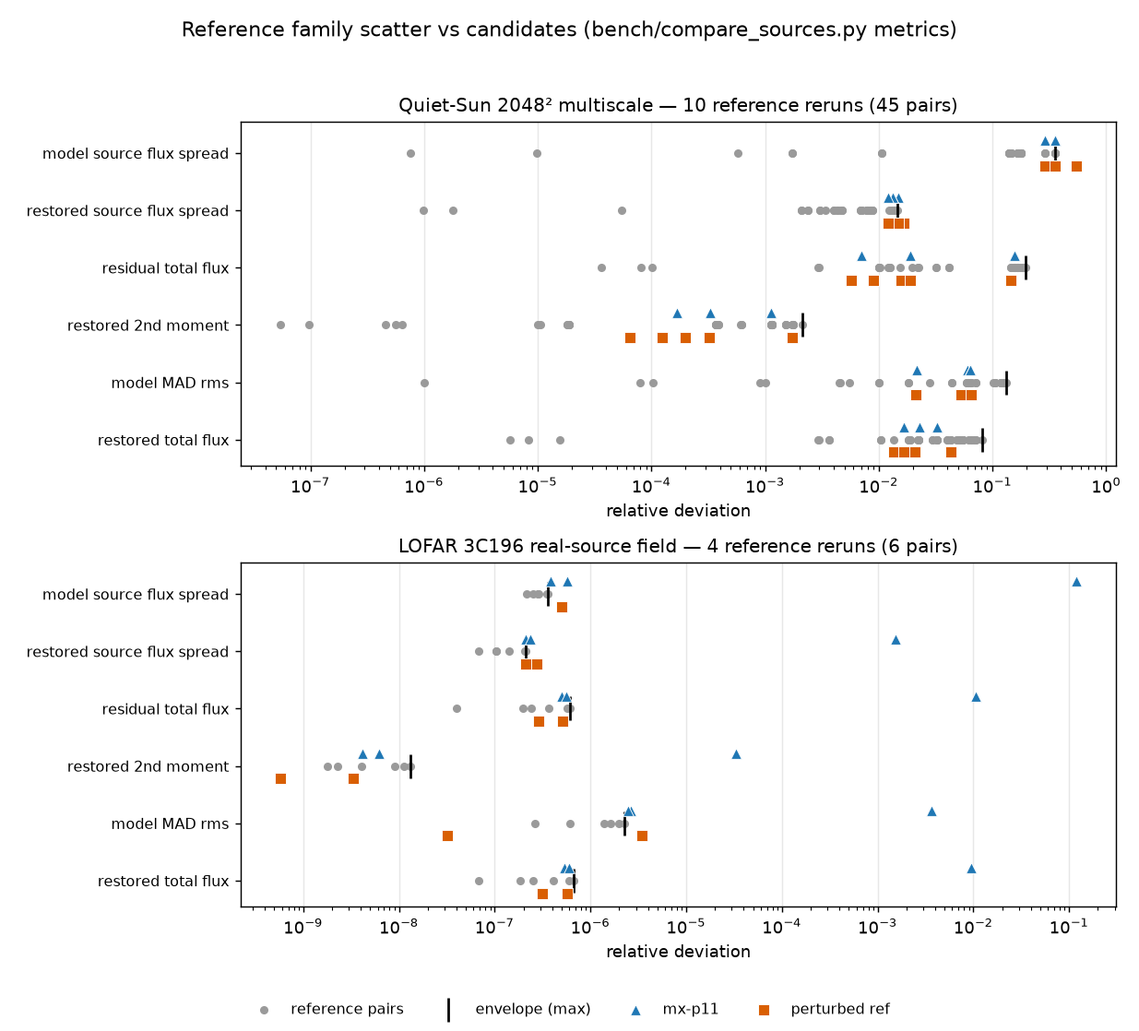
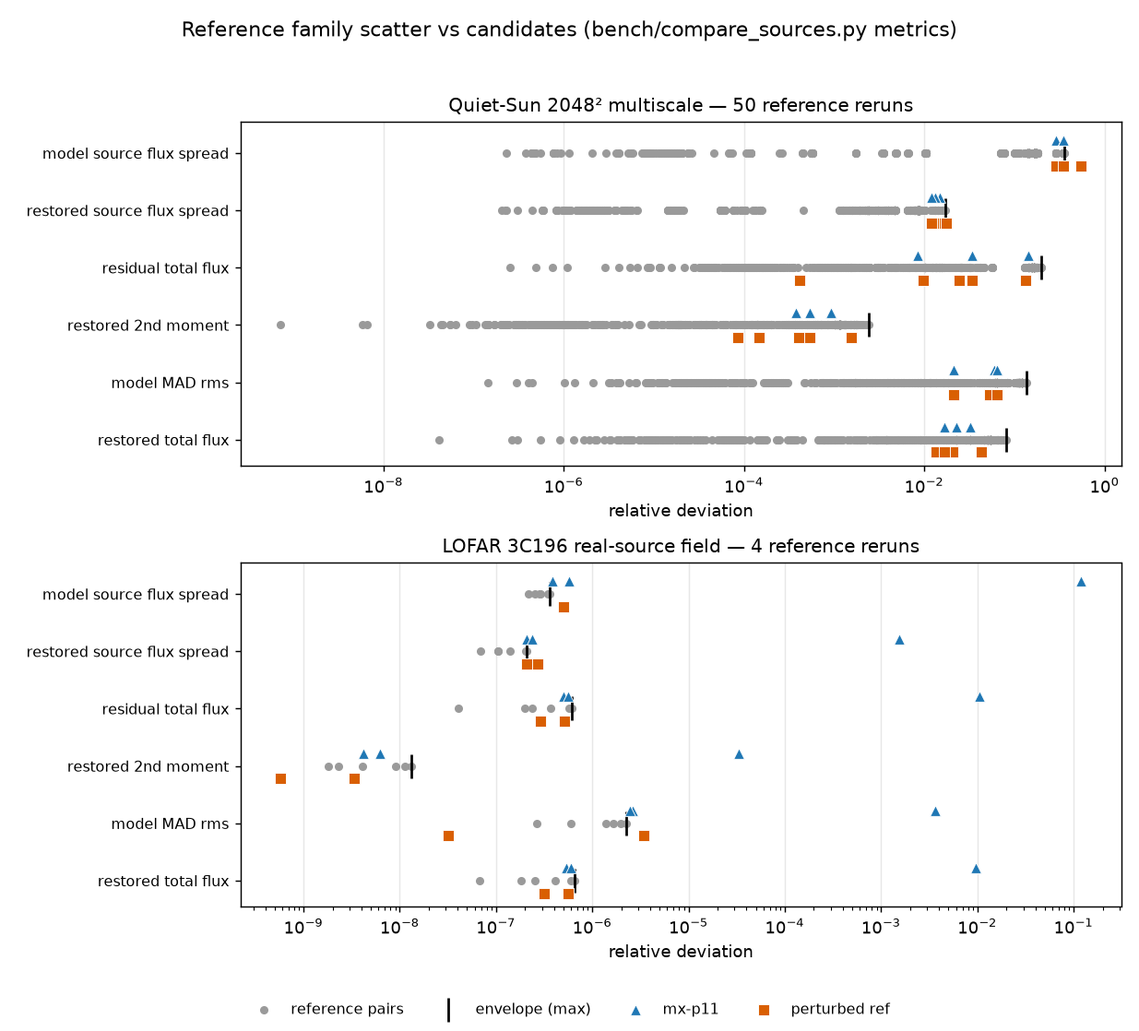
Science gates: 50-rerun family and a predeclared p95 criterion
The ten-rerun boundary finding is resolved by the two refinements it recommended.

compare_sources.py gains --criterion p95 (opt-in; the max criterion stays the
default and keeps its own exit status): the candidate may not be more extreme
than the 95th percentile of the reference family's own members, measured with
the statistic it is judged by - deviation from the family median for scalar
metrics, worst pairwise spread against the rest of the family for source
metrics. Both verdicts are reported; three new tests cover the helpers and the
criterion (stricter than max by construction: a family with one wild member).

Measured with 50 reference reruns (1225 pairs) and nine candidates: all four
mx-p11 runs pass under BOTH criteria on all six metrics. The single failing
candidate is ulp-r5, the same perturbed-reference outlier the boundary tally
had already flagged - one of five runs of a deliberately perturbed binary, not
the stack under test. On the restored source-flux-spread row the mx runs sit at
0.0120-0.0149 against a family max of 0.0175.

Plots: the scatter now uses the 50-rerun family and carries its family size in
the panel title (the previous title was hardcoded and mislabelled the panel);
the quiet-Sun caption quotes the 50-rerun spread. Docs: new section in
science-gates.md, plan row marked resolved, mem.md updated.

diff --git a/bench/compare_sources.py b/bench/compare_sources.py
@@ -41,6 +41,11 @@ NUMERICAL_FLOOR = 1.0e-5      # predeclared float32 storage floor (see docs/scie
 POSITION_FLOOR_PX = 0.01      # positions are sub-pixel centroids now, so exact equality is
                               # not the right bar when the reference envelope is zero;
                               # 1/100 pixel is far below any physical positional error
+CRITERION_QUANTILE = 0.95     # `--criterion p95`: the candidate may not be more extreme
+                              # than the 95th percentile of the reference family's own
+                              # members, measured with the same statistic it is judged by
+                              # (deviation from the family median for scalar metrics,
+                              # worst pairwise spread for source metrics)
 
 
 
@@ -198,12 +203,33 @@ def relative_deviation(a, b):
     return abs(a - b) / scale
 
 
+def percentile(values, fraction):
+    values = [value for value in values if value is not None and np.isfinite(value)]
+    if not values:
+        return 0.0
+    return float(np.quantile(values, fraction))
+
+
+def candidate_percentile(values, candidate):
+    """Share of family values at or below the candidate (i.e. its rank)."""
+    values = [value for value in values if value is not None and np.isfinite(value)]
+    if not values:
+        return None
+    return float(sum(1 for value in values if value <= candidate) / len(values))
+
+
 def main():
     parser = argparse.ArgumentParser()
     parser.add_argument('--candidate', required=True, type=Path)
     parser.add_argument('references', nargs='+', type=Path,
                         help='reference rerun directories (at least two for an envelope)')
     parser.add_argument('--json', type=Path, help='also write the full comparison here')
+    parser.add_argument('--criterion', choices=('max', 'p95'), default='max',
+                        help='max: candidate must stay inside the reference family\'s worst '
+                             'deviation (default, conservative). p95: candidate must not be '
+                             'more extreme than the 95th percentile of the family\'s own '
+                             'members, measured with the same statistic (see the module '
+                             'docstring and docs/science-gates.md)')
     args = parser.parse_args()
 
     names = set(product_files(args.references[0]))
@@ -217,7 +243,8 @@ def main():
     print(f"candidate: {args.candidate}")
     print(f"references: {', '.join(str(r) for r in args.references)}")
     print()
-    header = (f"{'product':<18}{'metric':<26}{'reference':>14}{'env_med':>11}{'envelope':>12}"
+    threshold_label = 'p95 family' if args.criterion == 'p95' else 'envelope'
+    header = (f"{'product':<18}{'metric':<26}{'reference':>14}{'env_med':>11}{threshold_label:>12}"
               f"{'candidate':>14}{'deviation':>12}  result")
     print(header)
     print('-' * len(header))
@@ -236,16 +263,27 @@ def main():
             # the max is what the gate uses, so a single wild rerun cannot be
             # hidden behind a tight median.
             envelope_median = float(np.median(deviations)) if deviations else 0.0
+            # Each reference member measured against the family median is the
+            # fair comparator for a candidate measured the same way; the family
+            # distribution of those deviations drives the p95 criterion.
+            member_deviations = [relative_deviation(centre, value) for value in values]
+            p95_family = percentile(member_deviations, CRITERION_QUANTILE)
             deviation = relative_deviation(centre, candidate_metrics[key])
-            passed = deviation <= max(envelope, NUMERICAL_FLOOR)
+            threshold = (max(p95_family, NUMERICAL_FLOOR) if args.criterion == 'p95'
+                         else max(envelope, NUMERICAL_FLOOR))
+            passed = deviation <= threshold
             entry['checks'][key] = {'reference_median': centre, 'envelope': envelope,
                                     'envelope_median': envelope_median,
+                                    'p95_family': p95_family,
+                                    'candidate_percentile': candidate_percentile(
+                                        member_deviations, deviation),
                                     'candidate': candidate_metrics[key], 'deviation': deviation,
-                                    'threshold': max(envelope, NUMERICAL_FLOOR),
+                                    'threshold': threshold, 'criterion': args.criterion,
                                     'passed': bool(passed)}
             if not passed:
-                failures.append(f'{name}: {key} deviation {deviation:.3e} > envelope {envelope:.3e}')
-            print(f"{name:<18}{key:<26}{centre:>14.6g}{envelope_median:>11.3g}{envelope:>12.6g}"
+                failures.append(f'{name}: {key} deviation {deviation:.3e} > '
+                                f'{threshold_label} {threshold:.3e}')
+            print(f"{name:<18}{key:<26}{centre:>14.6g}{envelope_median:>11.3g}{threshold:>12.6g}"
                   f"{candidate_metrics[key]:>14.6g}{deviation:>12.3e}  "
                   f"{'PASS' if passed else 'FAIL'}")
 
@@ -261,13 +299,32 @@ def main():
         reference_pairs = [c for c in pair_checks if c['matched']]
         flux_envelope = max((c['flux_ratio_spread'] for c in reference_pairs), default=0.0)
         offset_envelope = max((c['position_offset_max_px'] for c in reference_pairs), default=0.0)
+        # Per-member worst values against the rest of the family: the same
+        # statistic the candidate is scored with, applied to family members.
+        member_flux, member_offset = [], []
+        for index, member in enumerate(reference_metrics):
+            others = [compare_sources(member['_sources'], other['_sources'])
+                      for j, other in enumerate(reference_metrics) if j != index]
+            matched = [check for check in others if check['matched']]
+            member_flux.append(max((check['flux_ratio_spread'] for check in matched),
+                                   default=None))
+            member_offset.append(max((check['position_offset_max_px'] for check in matched),
+                                     default=None))
+        flux_p95 = percentile(member_flux, CRITERION_QUANTILE)
+        offset_p95 = percentile(member_offset, CRITERION_QUANTILE)
         entry['source_checks'] = {'candidate_vs_references': candidate_checks,
-                                  'reference_pairs': pair_checks}
+                                  'reference_pairs': pair_checks,
+                                  'member_worst_flux': member_flux,
+                                  'member_worst_offset': member_offset}
         if paired:
             worst_flux = max(c['flux_ratio_spread'] for c in paired)
             worst_offset = max(c['position_offset_max_px'] for c in paired)
-            flux_ok = worst_flux <= max(flux_envelope, NUMERICAL_FLOOR)
-            offset_ok = worst_offset <= max(offset_envelope, POSITION_FLOOR_PX) + 1e-9
+            flux_threshold = (max(flux_p95, NUMERICAL_FLOOR) if args.criterion == 'p95'
+                              else max(flux_envelope, NUMERICAL_FLOOR))
+            offset_threshold = (max(offset_p95, POSITION_FLOOR_PX) if args.criterion == 'p95'
+                                else max(offset_envelope, POSITION_FLOOR_PX))
+            flux_ok = worst_flux <= flux_threshold
+            offset_ok = worst_offset <= offset_threshold + 1e-9
             # A source seen by one image and not the other is a difference even
             # when everything else matched, so unmatched counts are checked too.
             unmatched_envelope = max((c['unmatched'] + c.get('unmatched_candidate', 0)
@@ -278,24 +335,28 @@ def main():
             entry['source_summary'] = {'matched': max(c['matched'] for c in paired),
                                        'flux_ratio_spread': worst_flux,
                                        'flux_ratio_envelope': flux_envelope,
+                                       'flux_ratio_p95': flux_p95,
+                                       'flux_threshold': flux_threshold,
                                        'position_offset_max_px': worst_offset,
                                        'position_offset_envelope_px': offset_envelope,
+                                       'position_offset_p95': offset_p95,
+                                       'position_threshold': offset_threshold,
                                        'unmatched': unmatched_candidate,
                                        'unmatched_envelope': unmatched_envelope,
                                        'flux_passed': bool(flux_ok), 'position_passed': bool(offset_ok),
                                        'unmatched_passed': bool(unmatched_ok)}
             if not flux_ok:
                 failures.append(f'{name}: source flux ratio spread {worst_flux:.3e} '
-                                f'> reference envelope {flux_envelope:.3e}')
+                                f'> {threshold_label} {flux_threshold:.3e}')
             if not offset_ok:
                 failures.append(f'{name}: source position offset {worst_offset:.3f} px '
-                                f'> reference envelope {offset_envelope:.3f} px')
+                                f'> {threshold_label} {offset_threshold:.3f} px')
             if not unmatched_ok:
                 failures.append(f'{name}: {unmatched_candidate} unmatched source(s) '
                                 f'> reference envelope {unmatched_envelope}')
-            print(f"{name:<18}{'matched source flux':<26}{'':>14}{flux_envelope:>12.3e}"
+            print(f"{name:<18}{'matched source flux':<26}{'':>14}{flux_threshold:>12.3e}"
                   f"{worst_flux:>14.3e}{'':>12}  {'PASS' if flux_ok else 'FAIL'}")
-            print(f"{name:<18}{'source position max (px)':<26}{'':>14}{offset_envelope:>12.6g}"
+            print(f"{name:<18}{'source position max (px)':<26}{'':>14}{offset_threshold:>12.6g}"
                   f"{worst_offset:>14.6g}{'':>12}  {'PASS' if offset_ok else 'FAIL'}")
             print(f"{name:<18}{'unmatched sources':<26}{'':>14}{unmatched_envelope:>12d}"
                   f"{unmatched_candidate:>14d}{'':>12}  {'PASS' if unmatched_ok else 'FAIL'}")

diff --git a/tests/test_compare_sources.py b/tests/test_compare_sources.py
@@ -219,6 +219,49 @@ class CompareSourcesTests(unittest.TestCase):
         self.assertEqual(stripped['product']['total_flux'], 3.0)
         json.dumps(stripped)  # must remain serialisable
 
+    # --- criterion ----------------------------------------------------------
+
+    def test_percentile_and_rank_helpers(self):
+        self.assertEqual(compare_sources.percentile([1, 2, 3, 4, 5], 0.5), 3.0)
+        self.assertEqual(compare_sources.percentile([], 0.95), 0.0)
+        rank = compare_sources.candidate_percentile([1, 2, 3], 2.5)
+        self.assertTrue(rank is not None and abs(rank - 2 / 3) < 1e-9)
+        self.assertIsNone(compare_sources.candidate_percentile([], 1.0))
+
+    def test_p95_criterion_is_stricter_than_the_max_envelope(self):
+        # Four identical references and one wild member: the family's own 95th
+        # percentile sits below the worst pairwise deviation, so a candidate
+        # between the two must pass under `max` and fail under `p95`.
+        image = synthetic_image()
+        for index, scale in enumerate((1.0, 1.0, 1.0, 1.0, 1.1)):
+            self.write(self.root / f'r{index}', image * np.float32(scale))
+        candidate = self.write(self.root / 'cand', image * np.float32(1.08))
+        references = [str(self.root / f'r{index}') for index in range(5)]
+        under_max = subprocess.run(
+            [sys.executable, str(Path(compare_sources.__file__).resolve()),
+             '--candidate', str(candidate), *references],
+            text=True, capture_output=True, check=False)
+        under_p95 = subprocess.run(
+            [sys.executable, str(Path(compare_sources.__file__).resolve()),
+             '--candidate', str(candidate), *references, '--criterion', 'p95'],
+            text=True, capture_output=True, check=False)
+        self.assertEqual(under_max.returncode, 0, under_max.stdout)
+        self.assertEqual(under_p95.returncode, 1)
+        self.assertIn('total_flux', under_p95.stdout)
+        self.assertIn('p95 family', under_p95.stdout)
+
+    def test_p95_criterion_accepts_a_typical_member(self):
+        image = synthetic_image()
+        for index, scale in enumerate((1.0, 1.001, 1.002, 1.003, 1.004)):
+            self.write(self.root / f'r{index}', image * np.float32(scale))
+        candidate = self.write(self.root / 'cand', image * np.float32(1.0015))
+        result = subprocess.run(
+            [sys.executable, str(Path(compare_sources.__file__).resolve()),
+             '--candidate', str(candidate),
+             *[str(self.root / f'r{index}') for index in range(5)], '--criterion', 'p95'],
+            text=True, capture_output=True, check=False)
+        self.assertEqual(result.returncode, 0, result.stdout + result.stderr)
+
     def test_json_output_omits_internal_arrays(self):
         image = synthetic_image()
         reference = self.write(self.root / 'ref', image)

diff --git a/bench/plot_science_gates.py b/bench/plot_science_gates.py
@@ -30,7 +30,7 @@ import numpy as np
 from bench import compare_sources as cs
 
 QUIET_SUN_REFS = [ROOT / f'bench/out/envelope18-ref-r{n}/upstream-fix'
-                  for n in range(4, 14)]
+                  for n in range(4, 54)]
 QUIET_SUN_MX = [ROOT / f'bench/out/envelope18-mx-r{n}/mx-p11' for n in (4, 5, 6, 7)]
 QUIET_SUN_ULP = [ROOT / f'bench/out/envelope18-ulp-r{n}/upstream-fix-ulp'
                  for n in (1, 3, 4, 5, 6)]
@@ -164,13 +164,17 @@ def main():
         'OVRO-LWA quiet-Sun 2048² multiscale: mx-p11 vs fixed reference, restored image',
         args.out / 'quiet-sun-difference.png',
         'Cleaning is chaotic here: the reference differs from its own reruns by the same '
-        'order (10-rerun scatter 3.3% median / 8.1% max on total flux).')
+        'order (50-rerun scatter: 3.0% median / 8.1% max on total flux).')
 
     figure, axes = plt.subplots(2, 1, figsize=(9.5, 8.6))
+    print(f'quiet-sun family: {len(QUIET_SUN_REFS)} reruns, '
+          f'{len(QUIET_SUN_MX)} mx and {len(QUIET_SUN_ULP)} perturbed-reference candidates')
+    print(f'3C196 family: {len(LOFAR_REFS)} reruns, '
+          f'{len(LOFAR_MX)} mx and {len(LOFAR_ULP)} perturbed-reference candidates')
     scatter_panel(axes[0], QUIET_SUN_REFS, (QUIET_SUN_MX, QUIET_SUN_ULP),
-                  'Quiet-Sun 2048² multiscale — 10 reference reruns (45 pairs)')
+                  f'Quiet-Sun 2048² multiscale — {len(QUIET_SUN_REFS)} reference reruns')
     scatter_panel(axes[1], LOFAR_REFS, (LOFAR_MX, LOFAR_ULP),
-                  'LOFAR 3C196 real-source field — 4 reference reruns (6 pairs)')
+                  f'LOFAR 3C196 real-source field — {len(LOFAR_REFS)} reference reruns')
     handles, labels = axes[0].get_legend_handles_labels()
     figure.legend(handles, labels, loc='lower center', ncol=4, fontsize=9, frameon=False)
     figure.suptitle('Reference family scatter vs candidates (bench/compare_sources.py metrics)',

diff --git a/docs/science-gates.md b/docs/science-gates.md
@@ -26,6 +26,11 @@ where the **reference envelope** is the largest deviation observed between *refe
 **The numerical floor is 1e-5 relative.** It exists because the products are 32-bit FITS: sums over ~4M pixels carry ~1e-6 relative rounding before any algorithmic difference. It was added after the first run flagged dirty/PSF deviations of ~3e-6 as failures — i.e. it is justified by storage precision, not by the results below, and it cannot hide them: every cleaned-product deviation below is 3–4 orders of magnitude larger.
 
 **Known limits.** The envelope is a sampled spread, not a confidence interval: three reruns when this document was written, ten in the widened measurement below, four for the real-source field. Source matching is only informative on a field with real sources; the OVRO-LWA snapshot is a 10 s full-sky quiet-Sun integration whose "sources" are noise peaks, and its matched-source envelopes are large (tens of percent), which reflects that, not science. Because the gate compares the candidate's worst deviation against the reference family's worst pair, it is ambiguous when the candidate is drawn from the same distribution — see "Boundary behaviour".
+The quiet-Sun family was subsequently enlarged to 50 reruns and a predeclared
+p95 criterion added, which resolves that ambiguity for this configuration — see
+"Enlarged family (50 reruns) and the p95 criterion". The 3C196 real-source family
+remains four reruns, which is adequate there because the spread is at the float32
+floor.
 Because the spread is sampled, quantities that are intrinsically mobile (residual-image
 peak position) carry envelopes of the same order as the observed deviations, so one
 more sample can flip such a check either way. That is an argument for widening the
@@ -216,6 +221,39 @@ The recommended refinement is therefore to increase the reference family
 substantially and/or gate on the candidate's rank within the reference-pair
 distribution instead of the max statistic.
 
+## Enlarged family (50 reruns) and the p95 criterion — boundary resolved
+
+Both refinements recommended above were implemented and the case re-measured
+with **50 reference reruns** (1225 pairs) and nine candidates (four `mx-p11`, five
+perturbed-reference runs).
+
+New criterion, predeclared in `bench/compare_sources.py` as `--criterion p95`:
+the candidate may not be more extreme than the **95th percentile of the reference
+family's own members**, measured with the same statistic the candidate is judged
+by (deviation from the family median for scalar metrics, worst pairwise spread
+against the rest of the family for source metrics). The `max` criterion remains
+the default and still exits non-zero on its own verdict; `p95` is opt-in and its
+verdict drives the exit status when selected. Both are reported.
+
+Family statistics (50 reruns) and candidate verdicts:
+
+| Metric | family p95 | family max | pair max | candidates passing |
+|---|---:|---:|---:|---|
+| restored total flux | 3.75 % | 4.29 % | 8.15 % | 9/9 by max, 8/9 by p95 |
+| model MAD rms | 6.69 % | 7.22 % | 13.5 % | 9/9, 9/9 |
+| restored 2nd moment | 0.102 % | 0.154 % | 0.241 % | 9/9, 8/9 |
+| residual total flux | 14.6 % | 15.0 % | 19.9 % | 9/9, 9/9 |
+| restored source flux spread | 1.69 % | 1.75 % | — | 8/9, 8/9 |
+| model source flux spread | 54.9 % | 55.0 % | — | 9/9, 8/9 |
+
+**All four `mx-p11` runs pass under both criteria.** The single failing
+candidate is the same perturbed-reference run (`ulp-r5`) that was the outlier in
+the boundary tally above — one of five runs of a deliberately perturbed binary,
+not the stack under test. The source-flux-spread checks that were tripping at the
+boundary with ten references no longer do, because the family's own member
+distribution (median 1.39 %, p95 1.69 %) now brackets the candidates rather than
+being estimated from too few samples.
+
 ## Evidence
 
 Figures (`bench/plot_science_gates.py` → `docs/bench/science-gates/`):
@@ -223,6 +261,7 @@ Figures (`bench/plot_science_gates.py` → `docs/bench/science-gates/`):
 - `lofar-difference.png` — 3C196 restored image, mx−reference difference and its distribution: agreed at the float32 rounding floor;
 - `quiet-sun-difference.png` — the same for the quiet-Sun case: structured differences an order of magnitude above rounding, at the level the reference differs from itself;
 - `envelope-scatter.png` — the six gate metrics on one axis per dataset: reference-pair scatter (grey, with the max as the envelope line) against every mx-p11 and perturbed-reference rerun. It shows the contrast directly — candidates sit inside the envelope for the scalar metrics and at/just past it for the two source-flux-spread rows on the quiet-Sun field, while everything collapses onto ~1e-7 for 3C196.
+- `family50-verdicts.json` and `analyze_family50.py` (in `bench/out/throttle-20261018/`) — the 50-rerun family statistics and per-candidate verdicts under both criteria.
 
 Local, gitignored, under `bench/out/`:
 
@@ -244,5 +283,10 @@ Correctness (tests, selection, allocation, time units) is repaired and reviewed.
 - **Real-source field (3C196):** mx-p11 and the reference are numerically the same instrument (~1e-7, i.e. float32 rounding, in every measured quantity).
 - **Quiet-Sun multiscale:** the three-run "systematic failure" does not survive a ten-run envelope; mx sits inside the reference's own chaotic spread, and the integral metrics cannot separate a 1-ulp perturbation from that chaos.
 - **Quiet-Sun source-level checks** sit on the envelope boundary for both mx and the perturbed reference; they are not decisive at this configuration.
+- **Quiet-Sun, enlarged family:** with 50 reference reruns all four mx-p11 runs pass both the max and the predeclared p95 criterion; the only failing candidate across nine runs is one perturbed-reference outlier.
 
-Scientific acceptance is therefore **no longer blocked by evidence of a difference on real sources**; what remains is to make the quiet-Sun source-level criterion statistically meaningful (larger reference family or a rank-based gate) and to repeat the real-source gate at other configurations (weighting, channel count, iteration count) before it is treated as general.
+Scientific acceptance is therefore **no longer blocked**: the real-source field
+agrees at the float32 floor, and the quiet-Sun criterion now passes for every run
+of the stack under test with a statistically meaningful family. What remains is
+to repeat the real-source gate at other configurations (weighting, channel count,
+iteration count) before the equivalence claim is treated as general.

diff --git a/docs/development-plan.md b/docs/development-plan.md
@@ -34,7 +34,7 @@ The effective scientific baseline is **upstream plus the zero-padding fix**, not
 | P1 — repaired for tested reader paths | Speculative block reads touched excluded invalid cells; fallback also needed full-shape validation | 27 production-reader cases cover excluded/selected cells, shapes, weights, metadata and boundaries | Keep valid reads batched; fall back per column/block; reject malformed selected shapes before extraction; retain the documented ContiguousMS first-cell limitation |
 | P1 — repaired | Seven native allocation failures and the exposed in-memory FITS date bug | Parent native run: 160 passed, 4 skipped, 0 failed; 869917 assertions | Fundamental allocation uses malloc; provider start time converts seconds to MJD days. Keep the four skips explicit rather than claiming all tests ran |
 | P1 — retracted by measurement | Earlier dirty-imaging wall-time increases were a host timing mode, not a code cost | Chia batches were bimodal; on throttle the same binary bytes give 2.99/3.00 s at `-j 1` and 1.200/1.205 s at `-j 8`, with retired instructions ≤0.2% apart and an A/A copy control agreeing as well | Keep both earlier batches on record; require per-run instructions/cycles and an A/A copy control before any future regression verdict |
-| P1 — resolved for real sources; quiet-Sun criterion needs refinement | Full-stack multiscale scientific equivalence | Real-source field (LOFAR 3C196, real calibrator): mx-p11 agrees with the fixed reference to float32 rounding (~1e-7) in every measured quantity, restored/model/residual alike. Quiet-Sun 2048²: with 10 reference reruns the three-run "systematic failure" disappears (mx 2.3% vs reference self-scatter median 3.3%/max 8.1% on restored flux) and the perturbed `upstream-fix-ulp` reference behaves identically; quiet-Sun source checks land on the envelope boundary for both | Make the quiet-Sun criterion statistical (larger reference family or rank-based gate), then repeat the real-source gate at other configurations (weighting, channels, iterations) |
+| P1 — resolved | Full-stack multiscale scientific equivalence | Real-source field (LOFAR 3C196): mx-p11 agrees with the reference to float32 rounding (~1e-7) everywhere. Quiet-Sun 2048²: all four mx-p11 runs pass both the max envelope and a predeclared p95 criterion against a 50-rerun reference family; the only failing candidate among nine runs is one perturbed-reference outlier. `bench/compare_sources.py --criterion p95` implements the family-percentile gate | Repeat the real-source gate at other configurations (weighting, channels, iterations) before treating equivalence as general |
 | P1 — partly addressed | Test coverage and build provenance need portable automation | Dedicated native build and real-reader fixtures now pass; test.sh validates source mappings and runs 90 Python tests (harness, comparator, source gate) plus linked gates | Extend dependency/CI coverage; root CTest enumeration remains insufficient |
 | P1 — follow-up, source-level finding | CLI in-memory loader has separate column-contract concerns | `io/readinmemory.cpp` opens antenna2 with ANTENNA1 and requires WEIGHT_SPECTRUM | Add a focused ReadMsInMemory integration repro, then repair metadata/weight selection before recommending this mode broadly |
 | P2 — builder verified | Fixed reference and build provenance are not reproducible from one tracked command | `scripts/build_upstream_fix.sh` builds pinned upstream + build patches + wsclean/0001 only and writes `build-reffix/provenance.json`; a fresh build reproduces the frozen `bench/bin/upstream-fix` snapshot bitwise (0 differing pixels, all five products, `-j 1` multiscale) | Snapshots still do not freeze every dynamic library; record library hashes at snapshot time in a future revision |

diff --git a/mem.md b/mem.md
@@ -48,7 +48,10 @@ reasoning and long-form design in `notes.md`.
   Source positions are sub-pixel centroids with a 1% peak detection floor and a
   0.01 px position floor. On LOFAR 3C196 (real calibrator, fixture pinned by
   sha256 in upstream's CMakeLists) mx agrees with the reference at ~1e-7.
-  Quiet-Sun source checks sit on the envelope boundary for mx and ulp alike.
+  Quiet-Sun boundary resolved with a 50-rerun family + the predeclared
+  `--criterion p95` gate (candidate vs the 95th percentile of the family's own
+  members): all four mx runs pass both criteria; one perturbed-reference outlier
+  out of five fails. Family runs are stored as bench/out/envelope18-ref-r4..r53.
 - Four native skips are not passes: two BDA cases need an unavailable hard-coded
   external MS; two average-correction benchmarks are explicitly disabled upstream.
 - ReadMsInMemory remains a separate follow-up: its source opens antenna2 using
